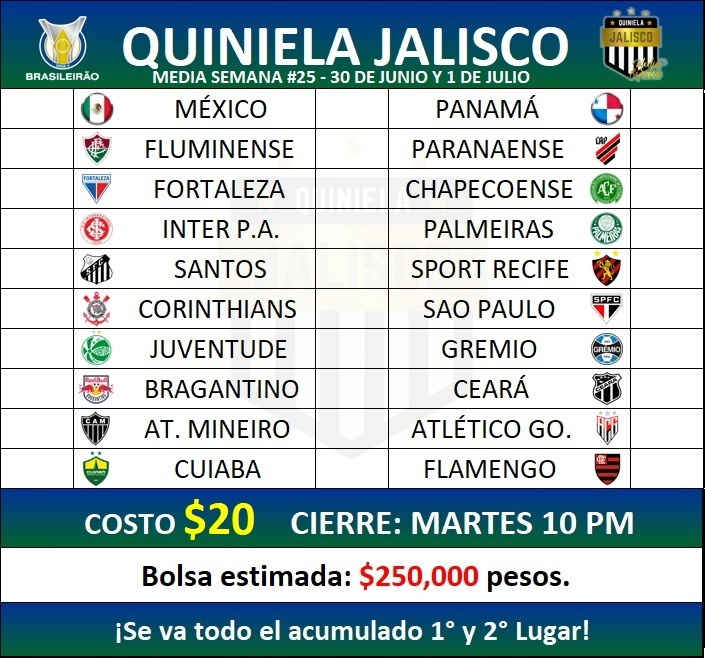
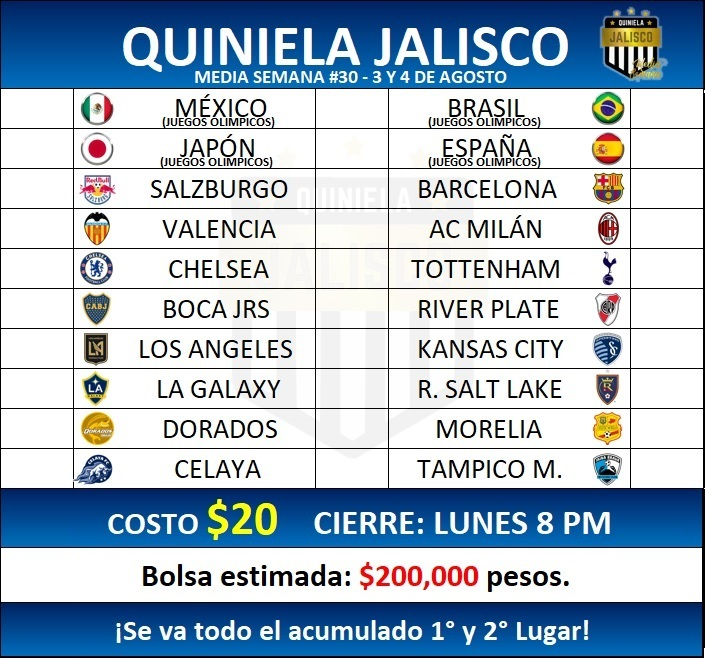
Media Semana #30

diff --git a/media.html b/media.html
@@ -2,22 +2,23 @@
 <html lang="en" translate="no">
 <head>
     <meta charset="UTF-8">
+    <meta name="google" content="notranslate">
     <meta name="viewport" content="width=device-width, initial-scale=1.0, user-scalable=no">
-    <title>Quiniela Jalisco - Media Semana</title>
+    <meta name="description" content="¡Registra aquí tus quinielas! - Quiniela Liga MX">
+    <meta name="keywords" content="Quiniela, Liga MX, Apostar, Pronósticos">
+    <title>Quiniela Jalisco</title>
     <link href="https://fonts.googleapis.com/css2?family=Roboto&display=swap" rel="stylesheet">
-    <link rel="stylesheet" href="MediaSemana/stylesm.css">
-    <link rel="icon" href="MediaSemana/iconm.jpg">
-    <link rel="apple-touch-icon" href="MediaSemana/iconm.jpg">
+    <link rel="stylesheet" href="10/styles10media.css">
+    <link rel="icon" href="icon.jpg">
+    <link rel="apple-touch-icon" href="icon.jpg">
     <link rel="shortcut icon" href="MediaSemana/iconm.jpg" type="image/x-icon">
     <script type="module" src="https://unpkg.com/ionicons@5.1.2/dist/ionicons/ionicons.esm.js"></script>
     <script nomodule="" src="https://unpkg.com/ionicons@5.1.2/dist/ionicons/ionicons.js"></script>
-    <script src="MediaSemana/mainm.js"></script>
+    <script src="10/main10media.js"></script>
 </head>
 
 <body>
-    <br>
-    <br>
-    <!--<p style='color:white;text-align:center'>Bolsa estimada: <span style="color:yellow">+$200,000 pesos</span></p>-->
+    <p id='bolsa'>¡Se reparte todo el acumulado!<br> Bolsa estimada: <span style="color:yellow">$200,000</span> pesos</p>
     <div class="quiniela" id="quiniela">
         <div class="aux"><h3 style="padding: 5px 7px" onclick="clean()"><ion-icon name="close-outline"></ion-icon></h3></div>
         <div class="partido">
@@ -83,6 +84,13 @@
             <div id="_"></div>
             <span id="V9" onclick="selection(this)"></span>
         </div>
+	<div class="partido">
+            <span id="L10" onclick="selection(this)"></span>
+            <div id="_"></div>
+            <span id="E10" onclick="selection(this)"></span>
+            <div id="_"></div>
+            <span id="V10" onclick="selection(this)"></span>
+        </div>
         <h1 id="text"></h1>
     </div>
     <table class="botonera">
@@ -118,20 +126,20 @@
                 <td style="width: 23%"></td>
             </tr>
         </table>
-        <script src="https://unpkg.com/ionicons@5.1.2/dist/ionicons.js"></script>
+        <!--<script src="https://unpkg.com/ionicons@5.1.2/dist/ionicons.js"></script>-->
 
         <br><br>
 
     <div>
-    <h4 id="costo">Costo: $0</h4><h4 id="total">Total: $0</h4><br>
+    <h4 id="costo">Costo: <span id="costoSpan">$0</span></h4><h4 id="total">Total: $0</h4><br>
     </div>
     <div>
         <h4 id="numquinielas">0 Quiniela(s)</h4>
     </div>
     <br>
     <!--<p id="display"></p>-->
-    <div id="divaux">
-        <table id="display" translate="no">
+    <div id="divaux" translate="no">
+        <table id="display">
         </table>
     </div>
     <!--<button id="undo" onclick="remove()"><ion-icon name="arrow-undo-outline"></ion-icon></button>-->

diff --git a/10/styles10media.css b/10/styles10media.css
@@ -90,8 +90,8 @@ h1{
     margin-top: 8%;
     border: solid 1px black;
     border-radius: 0 0 14px 14px;
-    background: -webkit-linear-gradient(0turn, rgb(3,53,142)  ,rgb(0,98,54) 80%);
-    background: linear-gradient(0turn, rgb(3,53,142)  ,rgb(0,98,54) 80%);
+    background: -webkit-linear-gradient(0turn, rgb(0,36,101)  ,rgb(9,107,178) 80%);
+    background: linear-gradient(0turn, rgb(0,36,101)  ,rgb(9,107,178) 80%);
     font-size: x-large;
 }
 
